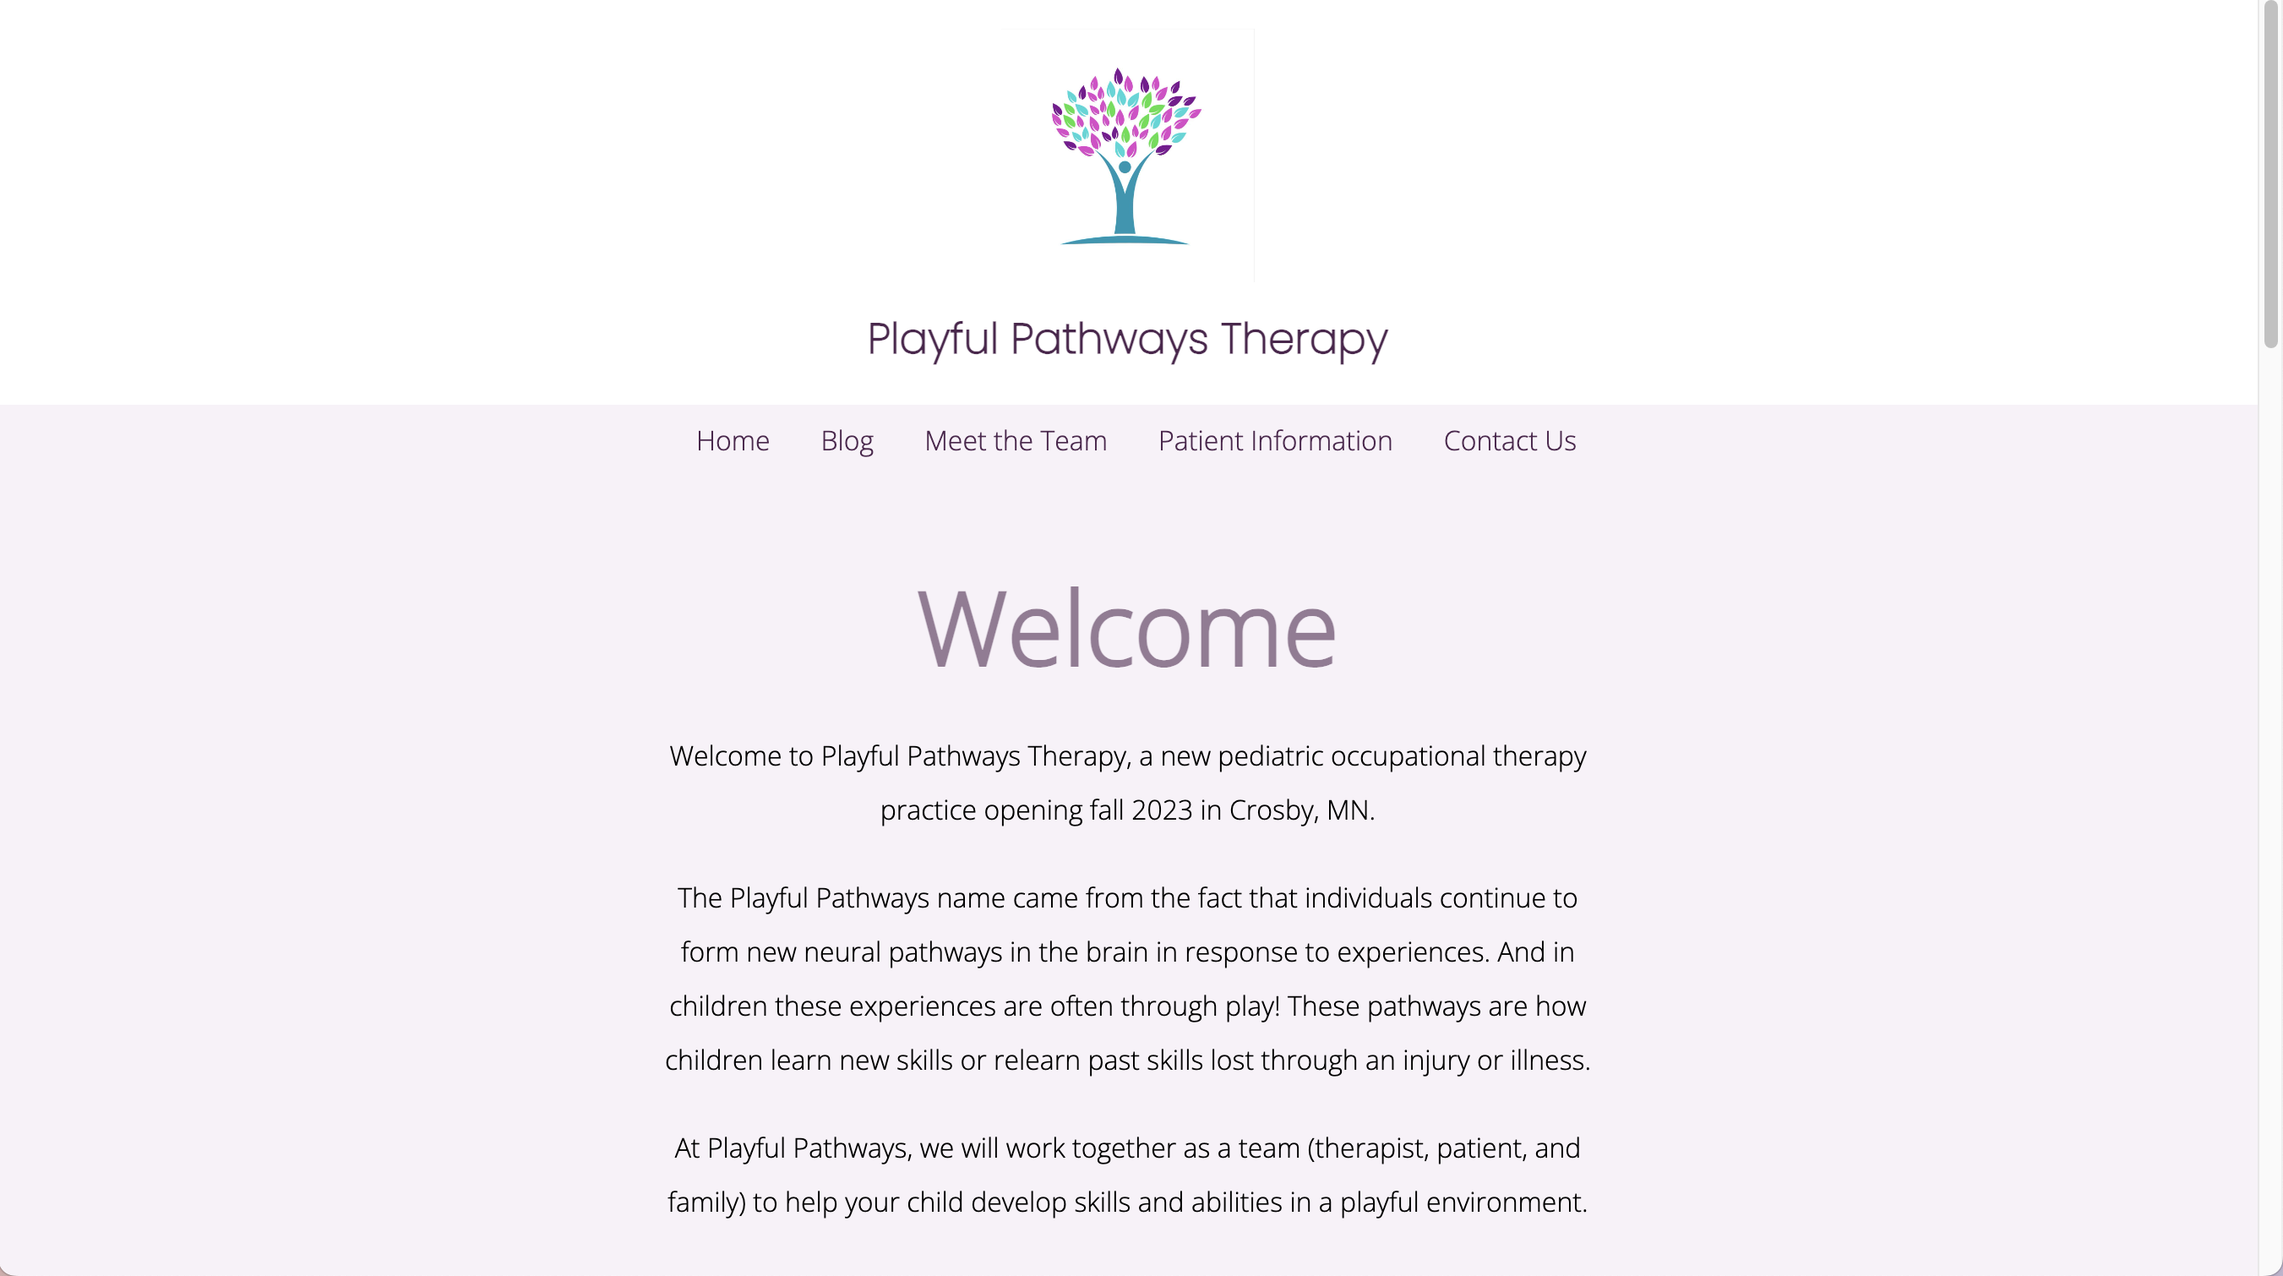
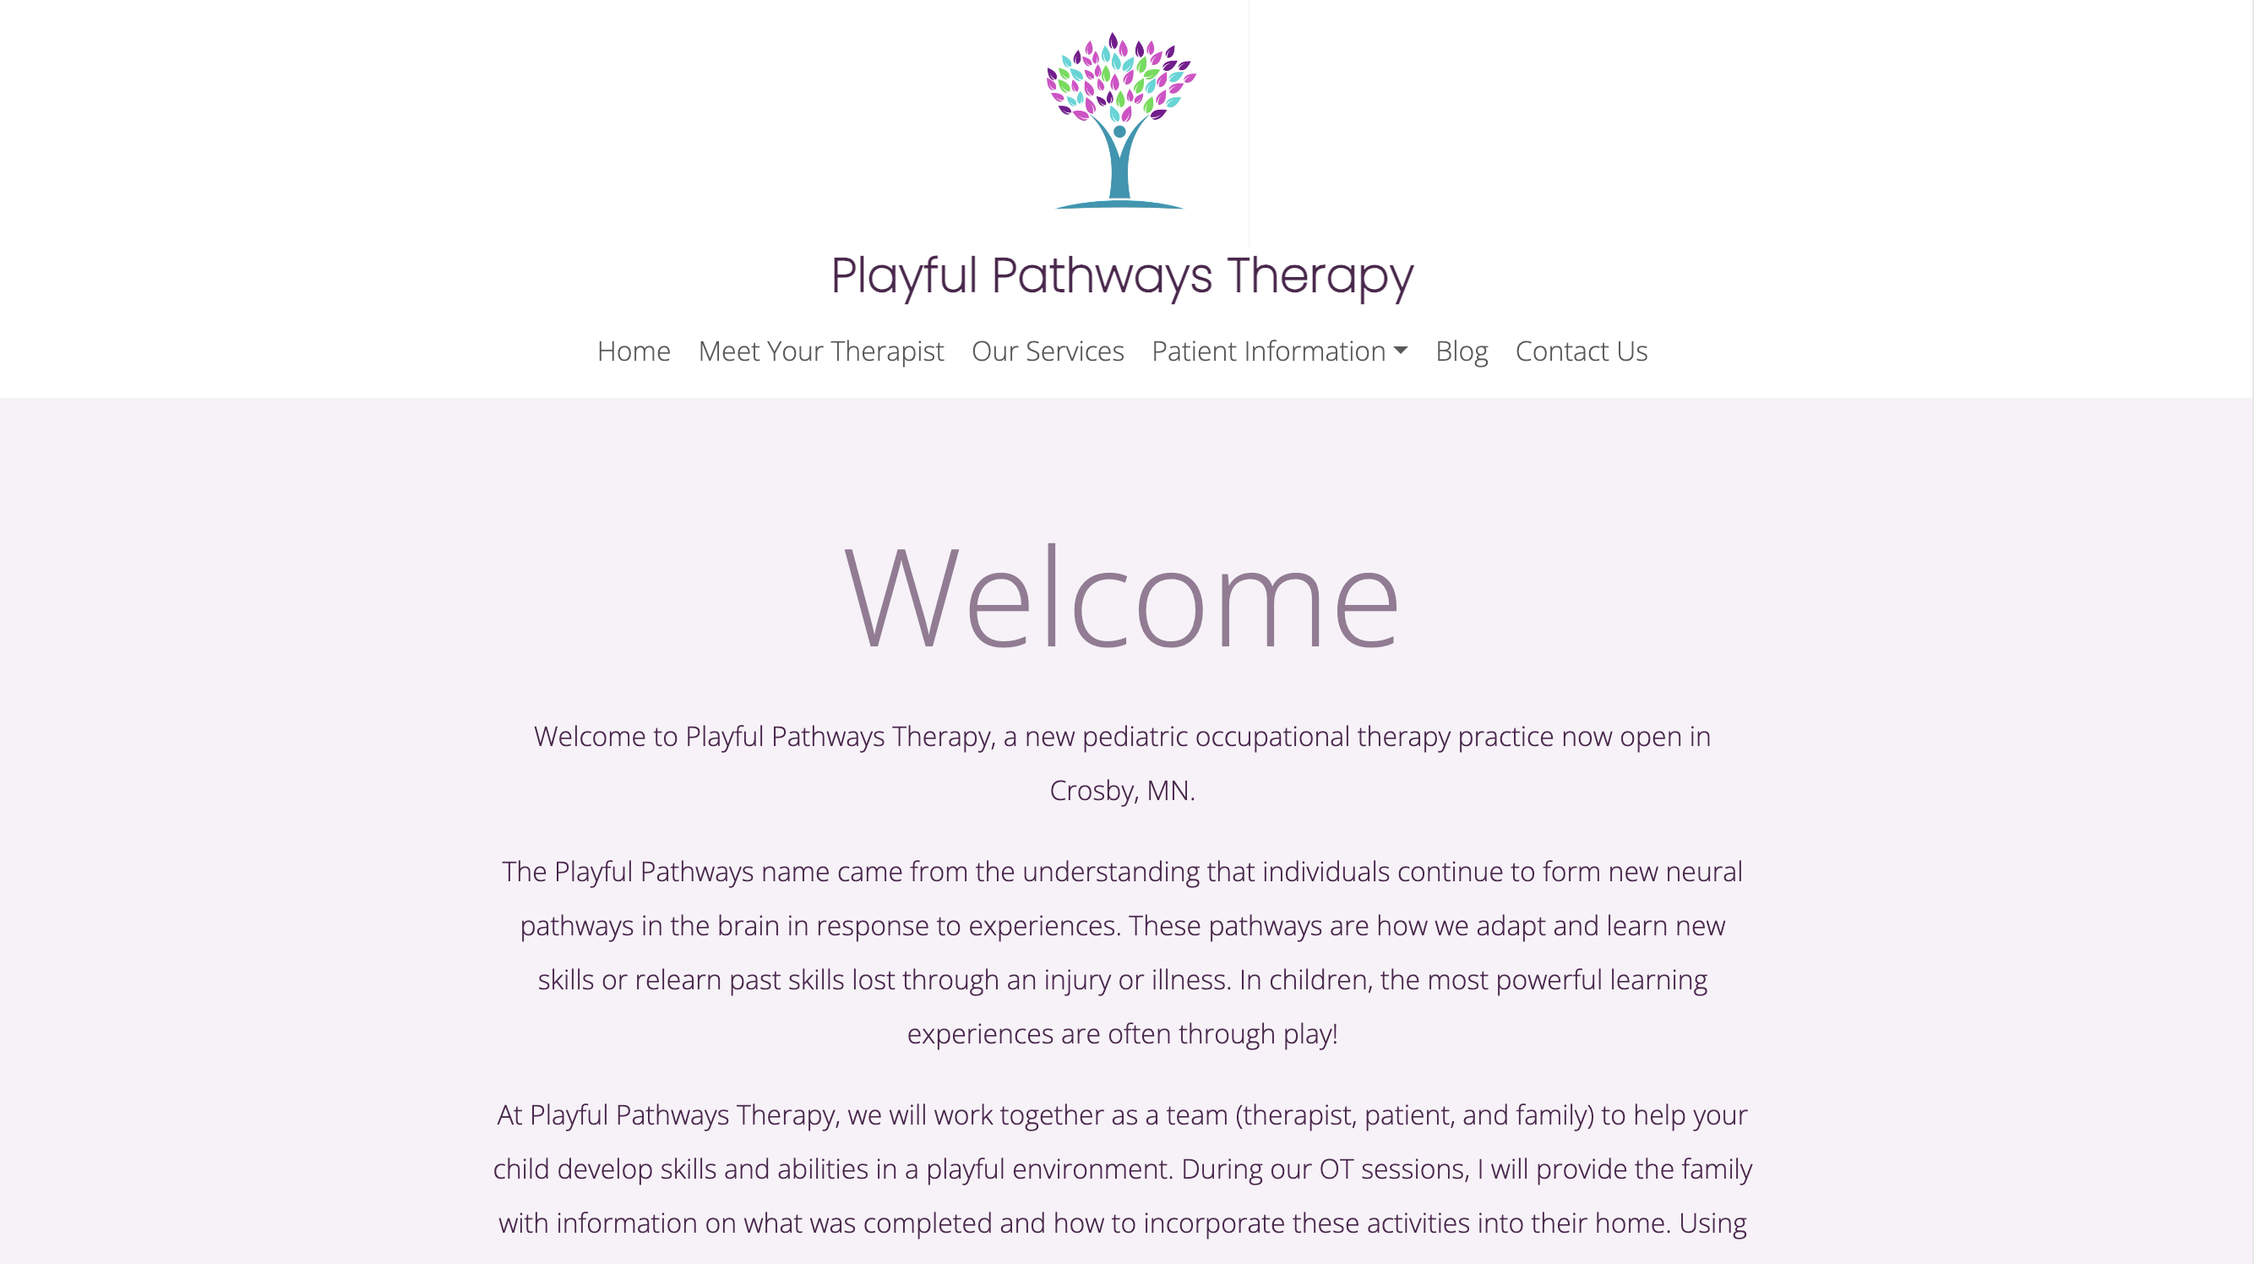
Modified About Me section, updated styles/layout

diff --git a/index.html b/index.html
@@ -8,12 +8,10 @@
         <link rel="preconnect" href="https://fonts.googleapis.com">
         <link rel="preconnect" href="https://fonts.gstatic.com" crossorigin>
         <link href="https://fonts.googleapis.com/css2?family=Nunito:ital,wght@0,300;0,400;1,300;1,400&display=swap" rel="stylesheet">
+        <link href="https://fonts.googleapis.com/css2?family=Satisfy&display=swap" rel="stylesheet">
         <script src="https://kit.fontawesome.com/5276d236c8.js" crossorigin="anonymous"></script>
         <link href="https://cdn.jsdelivr.net/npm/bootstrap@5.3.2/dist/css/bootstrap.min.css" rel="stylesheet" integrity="sha384-T3c6CoIi6uLrA9TneNEoa7RxnatzjcDSCmG1MXxSR1GAsXEV/Dwwykc2MPK8M2HN" crossorigin="anonymous">
         <link rel="stylesheet" href="styles.css">
-        <link rel="preconnect" href="https://fonts.googleapis.com">
-        <link rel="preconnect" href="https://fonts.gstatic.com" crossorigin>
-        <link href="https://fonts.googleapis.com/css2?family=Satisfy&display=swap" rel="stylesheet">
         <script type="text/javascript" src="https://cdn.jsdelivr.net/npm/@emailjs/browser@3/dist/email.min.js"></script>
         <script type="text/javascript">
                 emailjs.init("qahJ_DK94uJHlqiiB");
@@ -64,7 +62,7 @@
             <div id="home" class="container header">
                 <div class="header-text">
                     <h1 class="display-1">Hi, I'm Sarah</h1>
-                    <p>A self-taught front-end developer with a passion for transforming ideas into visually appealing and user-friendly websites.</p>
+                    <p>A self-taught web developer with a passion for transforming ideas into visually appealing, responsive and user-friendly designs that drive engagement and meet project objectives.</p>
                     <button class='btn' title="projects" data="Projects"><a href="#projects" aria-label="link to projects section"></a></button>
                 </div>
             </div>
@@ -72,20 +70,32 @@
 
             <h2 class="display-5" id="about">About Me</h2>
             <div class="container">
-                <div class="about row row-cols-1 row-cols-md-2 justify-content-between gx-5">
-                        <div class ="about-text col-lg-6 col-md-7 p-4">
-                            <p>I'm a front-end web developer that began my intro to coding through platforms like FreeCodeCamp, where I studied countless hours to improve my skills.</p>
-                            <p>My learning journey has been diverse, including solving algorithms on LeetCode, studying React, consulting the thorough documentation on MDN, and gaining practical insights from YouTube tutorials. GitHub is my virtual playground, showcasing my coding skills through personal projects and websites.</p>
-                            <p>I thrive on the excitement of problem-solving and the dynamic world of front-end development. Feel free to reach out to me anytime, let's connect!</p>
+                <div class="about row row-cols-1 row-cols-md-2 justify-content-between align-items-center gx-5">
+                        <div class ="about-text col-lg-6 col-md-12 p-4">
+                            <div class="pb-2">
+                                With a strong foundation in web development technologies, I excel in delivering high-quality, data-driven solutions that enhance user experiences.
+                                My expertise lies in creating dynamic web applications using a variety of tools and frameworks. 
+
+                                My projects showcase my ability to design clean, user-friendly UIs with clear CTA's while using RESTful APIs to enhance functionality.
+
+                                I have demonstrated consistent success in applying responsive design techniques 
+                                to ensure seamless experiences across various devices. 
+
+                                Moreover, my familiarity with testing and debugging tools like Chrome DevTools, Postman and 
+                                version control systems like Git and GitHub emphasizes my commitment to delivering error-free solutions.
+
+                                I'm passionate about pushing the boundaries of web development, learning new technologies, and delivering impactful solutions that resonate with users. 
+                                I am excited to contribute my skills and expertise to innovative projects and collaborate with like-minded professionals in the dynamic field of web development.
+                            </div>
                             <button class='btn' data="Contact Me" title="Contact"><a href="#contact" aria-label="Link to contact section"></a></button>
                         </div>
-                        <div class="skills col-lg-5 col-md-5">
+                        <div class="skills col-lg-5 col-md-12">
                             <div class="skill-bubble">CSS</div>
                             <div class="skill-bubble">HTML</div>
                             <div class="skill-bubble">Javascript</div>
                             <div class="skill-bubble">React</div>
                             <div class="skill-bubble">Github</div>
-                            <div class="skill-bubble">Rest APIs</div>
+                            <div class="skill-bubble">RESTful APIs</div>
                             <div class="skill-bubble">Bootstrap</div>
                             <div class="skill-bubble">TypeScript</div>
                         </div>
@@ -93,15 +103,16 @@
             </div>
             
             <h2 class="display-5" id="projects">Projects</h2>
-            <div class ="container-fluid project-container p-3">
-                <div class="row row-cols-1 row-cols-md-2 row-cols-lg-3 g-3">
+            <div class ="container-fluid project-container p-3 m-auto">
+                <div class="row row-cols-1 row-cols-md-2 row-cols-lg-3 m-auto">
+
                     <div class="project col">
                         <img class="img-fluid project-img mx-auto d-block" src="images/randomquotegenerator.png" alt="Project 1">
                         <div class="overlay">
-                            <div class="description">Random Quote Generator With Path To Post Current Quote</div>
+                            <div class="description">Random Quote Generator With Path To Share Current Quote, made with Javascript, HTML, CSS and Bootstrap</div>
                             <div class="d-flex flex-row gap-2">
-                                <a href="" class="live-link" target="_blank" rel="noopener">Live Link</a>
-                                <a href="https://github.com/sarahlynnx/ProductLandingPage" class="live-link" target="_blank" rel="noopener">Github Repository</a>
+                                <a href="https://sarahlynnx.github.io/Random-Quote-Generator/" class="live-link" target="_blank" rel="noopener">Live Link</a>
+                                <a href="https://github.com/sarahlynnx/Random-Quote-Generator" class="live-link" target="_blank" rel="noopener">Github</a>
                             </div>
                         </div>
                     </div>
@@ -109,54 +120,54 @@
                     <div class="project col">
                         <img class="img-fluid project-img mx-auto d-block" src="images/playfulpathways.png" alt="Project 2">
                         <div class="overlay">
-                            <div class="description">Website for Playful Pathways Pediatric Therapy</div>
+                            <div class="description">Website for Playful Pathways made with Javascript, HTML, CSS and Google Maps API</div>
                             <div class="d-flex flex-row gap-2">
-                                <a href="https://github.com/sarahlynnx/Playful-Pathways" class="live-link" target="_blank" rel="noopener">Live Link</a>
-                                <a href="https://github.com/sarahlynnx/Playful-Pathways" class="live-link" target="_blank" rel="noopener">Github Repository</a>
+                                <a href="https://sarahlynnx.github.io/Playful-Pathways/" class="live-link" target="_blank" rel="noopener">Live Link</a>
+                                <a href="https://github.com/sarahlynnx/Playful-Pathways" class="live-link" target="_blank" rel="noopener">Github</a>
                             </div>
                         </div>
                     </div>
 
                     <div class="project col">
-                        <img class="img-fluid project-img mx-auto d-block" src="images/undercoverSnacks.png" alt="Project 6">
+                        <img class="img-fluid project-img mx-auto d-block" src="images/undercoverSnacks.png" alt="Project 3">
                         <div class="overlay">
-                            <div class="description">Undercover Snacks Landing Page</div>
+                            <div class="description">Product Landing Page made with React, Bootstrap, CSS and RESTful APIs</div>
                             <div class="d-flex flex-row gap-2">
                                 <a href="https://sarahlynnx.github.io/ProductLandingPage/" class="live-link" target="_blank" rel="noopener">Live Link</a>
-                                <a href="https://github.com/sarahlynnx/ProductLandingPage" class="live-link" target="_blank" rel="noopener">Github Repository</a>
+                                <a href="https://github.com/sarahlynnx/ProductLandingPage" class="live-link" target="_blank" rel="noopener">Github</a>
                             </div>
                         </div>
                     </div>
                     
                     <div class="project col">
-                        <img class="img-fluid project-img mx-auto d-block" src="images/macmiller.png" alt="Project 3">
+                        <img class="img-fluid project-img mx-auto d-block" src="images/" alt="Project 4">
                         <div class="overlay">
-                            <div class="description">Tribute Project for FreeCodeCamp</div>
+                            <div class="description">Blog application made with React, CSS, Bootstrap, MongoDB, express, and RESTful APIS</div>
                             <div class="d-flex flex-row gap-2">
-                                <a href="https://github.com/sarahlynnx/Mac-Miller-Tribute" class="live-link" target="_blank" rel="noopener">Live Link</a>
-                                <a href="https://github.com/sarahlynnx/Mac-Miller-Tribute" class="live-link" target="_blank" rel="noopener">Github Repository</a>
+                                <a href="https://sarahlynnx.github.io/Blog/" class="live-link" target="_blank" rel="noopener">Live Link</a>
+                                <a href="https://github.com/sarahlynnx/Blog" class="live-link" target="_blank" rel="noopener">Github</a>
                             </div>
                         </div>
                     </div>
               
                     <div class="project col">
-                        <img class="img-fluid project-img mx-auto d-block" src="images/webdevsurvey.png" alt="Project 4">
+                        <img class="img-fluid project-img mx-auto d-block" src="images/calculator.png" alt="Project 5">
                         <div class="overlay">
-                            <div class="description">Survey Project for FreeCodeCamp</div>
+                            <div class="description">Calculator App made with React, CSS and Bootstrap</div>
                             <div class="d-flex flex-row gap-2">
-                                <a href="https://github.com/sarahlynnx/Web-Development-Survey" class="live-link" target="_blank" rel="noopener">Live Link</a>
-                                <a href="https://github.com/sarahlynnx/Web-Development-Survey" class="live-link" target="_blank" rel="noopener">Github Repository</a>
+                                <a href="https://sarahlynnx.github.io/calculator/" class="live-link" target="_blank" rel="noopener">Live Link</a>
+                                <a href="https://github.com/sarahlynnx/calculator" class="live-link" target="_blank" rel="noopener">Github</a>
                             </div>
                         </div>
                     </div>
 
                     <div class="project col">
-                        <img class="img-fluid project-img mx-auto d-block" src="images/csstechnicaldoc.png" alt="Project 5">
+                        <img class="img-fluid project-img mx-auto d-block" src="images/drumMachineWebpage.png" alt="Project 6">
                         <div class="overlay">
-                            <div class="description">Technical documentation Project for FreeCodeCamp</div>
+                            <div class="description">Drum Machine App made with React, CSS and Bootstrap</div>
                             <div class="d-flex flex-row gap-2">
-                                <a href="https://github.com/sarahlynnx/CSS-Technical-Documentation" class="live-link" target="_blank" rel="noopener">Live Link</a>
-                                <a href="https://github.com/sarahlynnx/CSS-Technical-Documentation" class="live-link" target="_blank" rel="noopener">Github Repository</a>
+                                <a href="https://sarahlynnx.github.io/Drum-Machine/" class="live-link" target="_blank" rel="noopener">Live Link</a>
+                                <a href="https://github.com/sarahlynnx/Drum-Machine" class="live-link" target="_blank" rel="noopener">Github</a>
                             </div>
                         </div>
                     </div>
@@ -170,7 +181,6 @@
                     <div class="socials-container d-flex align-items-center">
                         <div class="col-sm-4 socials">
                             <a href="https://www.linkedin.com/in/sarah-olson-50a1612a0/" aria-label="link to linkedin" target="_blank" rel="noopener"><i class="fa-brands fa-linkedin"></i></a>
-                            <a href="https://twitter.com/SarahLynn9999" aria-label="link to twitter" target="_blank" rel="noopener"><i class="fa-brands fa-x-twitter"></i></a>
                             <a href="https://github.com/sarahlynnx" aria-label="link to github" target="_blank" rel="noopener"><i class="fa-brands fa-github"></i></a>
                         </div>
                     </div>
@@ -195,7 +205,7 @@
 
                 </div>
             </div>
-            <footer>	© Copyright 2024. Handcrafted by Sarah Olson</footer>
+            <footer>	©2024. Created by Sarah Olson</footer>
         </div>
         <script src="index.js"></script>
         <script src="https://cdn.jsdelivr.net/npm/bootstrap@5.3.2/dist/js/bootstrap.bundle.min.js"></script>

diff --git a/styles.css b/styles.css
@@ -49,14 +49,14 @@ body {
 } 
 
 .navbar-text {
-    color: var(--tertiary-color);
+    color: var(--primary-color);
     padding-left: 10px;
     padding-right: 10px;
     font-family: 'Satisfy', sans-serif;
 }
 
 .navbar-text.theme {
-    color: var(--primary-color);
+    color: var(--tertiary-color);
 }
 
 .nav-item:hover::after{
@@ -65,7 +65,7 @@ body {
 
 .header-text {
     width: 80%;
-    max-width: 800px;
+    max-width: 810px;
     height: auto;
     margin: auto;
     margin-bottom: 20%;
@@ -132,21 +132,25 @@ h2 {
 }
 
 .about {
-    text-align: center;
+    text-align: justify;
     position: relative;
     margin-bottom: 10%;
-}
-
-.about-text p {
-    text-align: justify;
 }
 
 .skills {
     position: relative;
     width: 560px;
     height: 520px;
+    margin: auto;
     align-items: center;
     justify-content: center;
+}
+
+@media screen and (min-width: 978px) and (max-width: 1200px) {
+    .skills {
+        width: 490px;
+        height: 500px;
+    }
 }
 
 .skills .skill-bubble {
@@ -199,16 +203,19 @@ h2 {
 .project {
     position: relative;
     overflow: hidden;
+    padding: 0;
 }
 
+
 .project-img {
-    min-height: 245px;
+    height: 100%;
+    width: 100%;
 }
 
 .overlay {
     position: absolute;
     top: 0;
-    width: 96.5%;
+    width: 100%;
     height: 100%;
     background: rgba(0, 0, 0, 0.7);
     color: #fff;

diff --git a/index.js b/index.js
@@ -30,7 +30,7 @@ function toggleTheme() {
     themeIcon.classList.remove('fa-sun');
     themeIcon.classList.add('fa-moon');
     navItems.forEach(item => item.classList.remove('theme'));
-    navText.classList.remove('theme');
+    navText.classList.add('theme');
     navLink.forEach(item => item.classList.add('theme'));
     contactForm.classList.add('theme');
     btnAfterElement.forEach(item => item.classList.add('theme'));
@@ -40,7 +40,7 @@ function toggleTheme() {
     themeIcon.classList.remove('fa-moon');
     themeIcon.classList.add('fa-sun');
     navItems.forEach(item => item.classList.add('theme'));
-    navText.classList.add('theme');
+    navText.classList.remove('theme');
     navLink.forEach(item => item.classList.remove('theme'));
     contactForm.classList.remove('theme');
     btnAfterElement.forEach(item => item.classList.remove('theme'));
